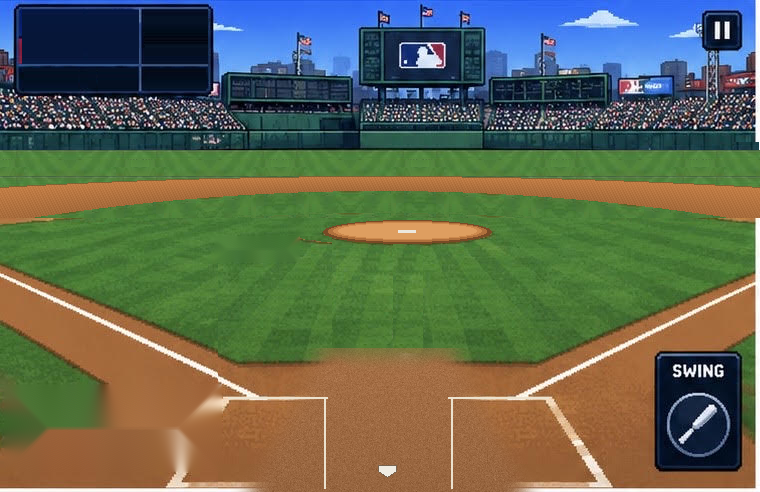
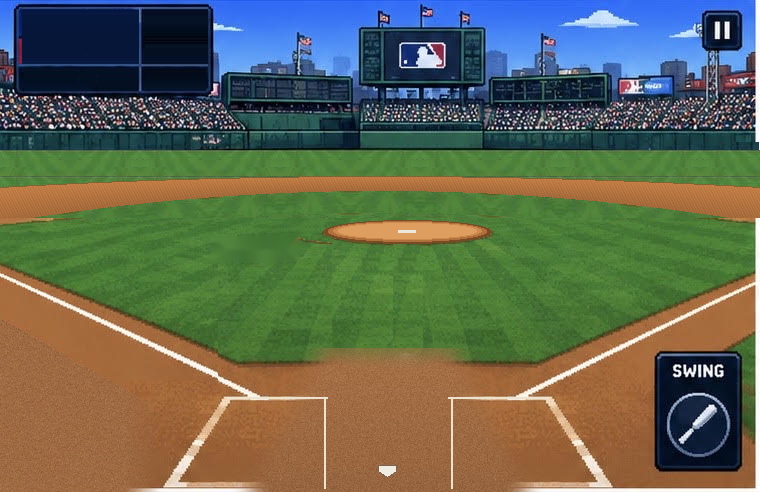
Repair smeared left batter's box

Changed region(s): [[0.0, 0.6402, 0.1513, 0.9451], [0.0, 0.7622, 0.3329, 1.0]]

diff --git a/index.html b/index.html
@@ -214,7 +214,7 @@ function look(){
 }
 
 // ── season-long state ──────────────────────────────────────────────────────
-const BUILD = '11-01d';
+const BUILD = '11-01e';
 const SAVE = 'retrobaseball.v1';
 let G = null;
 

diff --git a/tools/fix_boxes.py b/tools/fix_boxes.py
@@ -1,0 +1,23 @@
+"""Repaint the smeared left batter's box / bottom-left corner of plate_clean.png by mirroring the clean right side."""
+import numpy as np
+from PIL import Image
+src = Image.open('assets/fields/plate_clean_v1.png').convert('RGB'); a = np.array(src); H, W, _ = a.shape
+b = a.copy(); CX2 = 775                                    # mirror axis: x' = 775 - x
+# A: the left box and the dirt around it, from the right side
+for y in range(380, H):
+    for x in range(125, 300):
+        b[y, x] = a[y, CX2 - x]
+# B: far-left corner: plain foul-ground dirt below the foul-grass edge (which runs on down-right as a straight line), feathered into A
+patch = a[405:440, 330:440]
+tex = lambda y, x: patch[(y * 7 + x * 3) % patch.shape[0], (x * 5 + y) % patch.shape[1]]
+for y in range(300, H):
+    for x in range(0, 160):
+        if y > 322 + x * .56 - 3:
+            t = tex(y, x)
+            if x < 125: b[y, x] = t
+            elif y >= 380: k = (x - 125) / 35; b[y, x] = (t * (1 - k) + b[y, x] * k).astype(np.uint8)
+# fix the seam: blur 2px band at x=125 and x=300 horizontally
+for x0 in (299,):
+    for x in range(x0 - 2, x0 + 3):
+        b[380:, x] = (b[380:, x - 1].astype(int) + b[380:, x + 1].astype(int)) // 2
+Image.fromarray(b).save('assets/fields/plate_clean.png'); print('ok')
